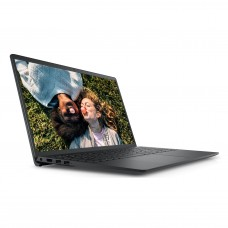
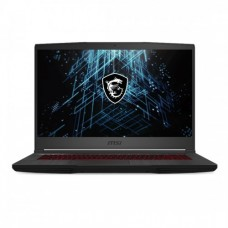
random componenet added and used successfully

diff --git a/src/component/products/Products.js b/src/component/products/Products.js
@@ -1,6 +1,7 @@
 import React, { useEffect, useState } from "react";
 import Cart from "../cart/Cart";
 import Proudct from "../product/Proudct";
+import Random from "../random/Random";
 
 const Products = () => {
   // For Products load from json file
@@ -52,9 +53,9 @@ const Products = () => {
       </div>
       {/* CArt */}
       <div className="shopping-cart shadow-xl  pl-2 mr-2 border-2 md:col-span-2 rounded-l-lg">
-        <div className="mt-10 sticky top-8">
+        <div className="mt-6 sticky top-2">
           <h2 className="text-2xl md:text-3xl mb-4 font-semibold">
-            Selected Laptops
+            Selected Products
           </h2>
           {pickProduct.map((product) => (
             <Cart product={product} key={product.id}></Cart>
@@ -76,7 +77,7 @@ const Products = () => {
             </button>
           </div>
           {randomProduct.map((product) => (
-            <Cart product={product} key={product.id}></Cart>
+            <Random product={product} key={product.id}></Random>
           ))}
         </div>
       </div>

diff --git a/src/component/random/Random.js b/src/component/random/Random.js
@@ -1,0 +1,20 @@
+import React from "react";
+
+const Random = ({ product }) => {
+    const {picture, name} = product
+  return (
+    <div className="mb-4">
+        <h3 className="text-center text-xl md:text-2xl font-bold text-violet-600">YAYY!! Best Fit For You 🤩</h3>
+      <div className="border-2 rounded-lg">
+        <img className="mx-auto w-1/3" src={picture} alt={name} />
+        <div className="product-info ml-3">
+          <h3 className="text-xl md:text-2xl font-semibold mb-4 sm:mb-0 lg:mb-4">
+            {name}
+          </h3>
+        </div>
+      </div>
+    </div>
+  );
+};
+
+export default Random;
